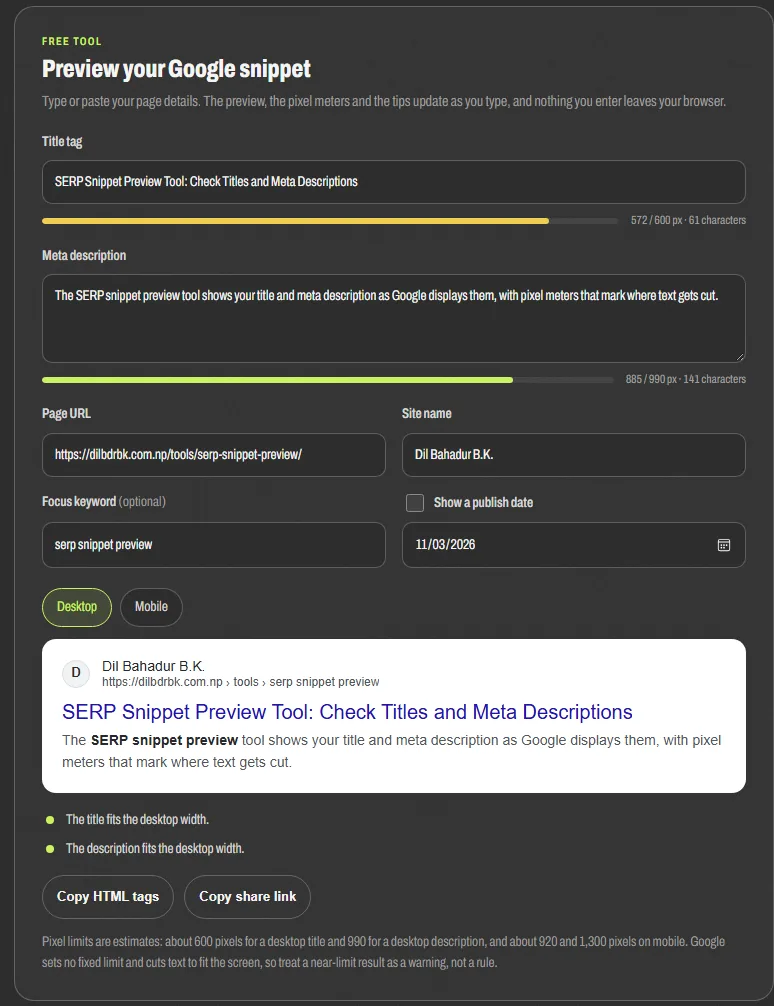
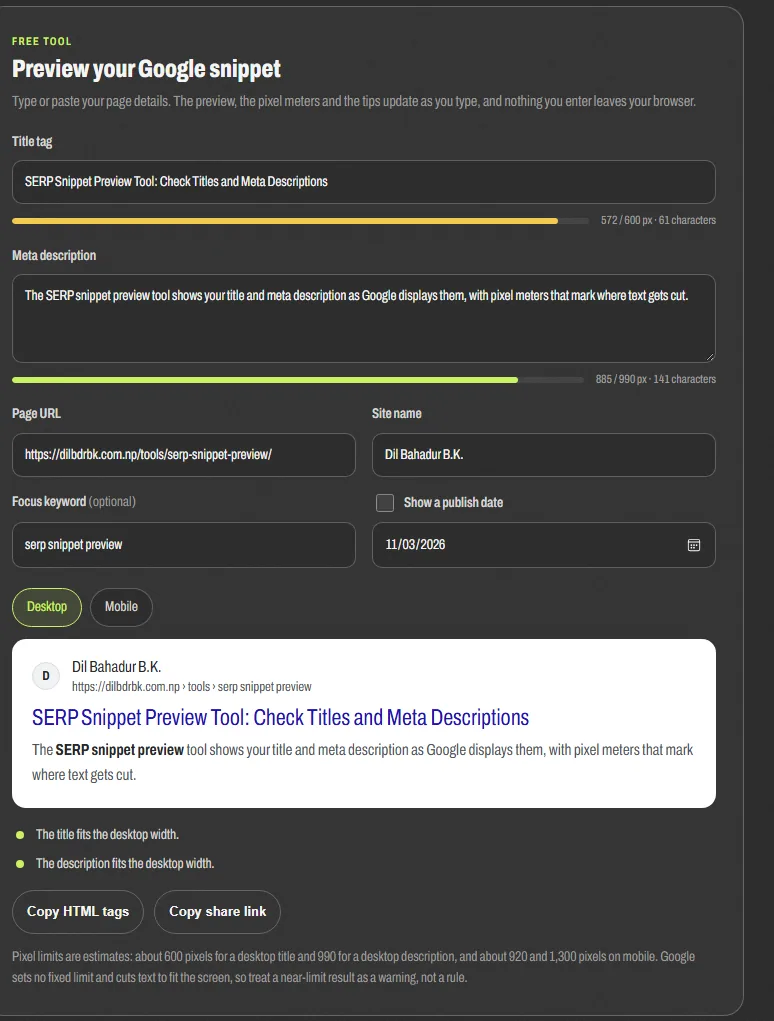
Full name in every page title; SERP preview card in the site font

diff --git a/tools/serp-snippet-preview/index.html b/tools/serp-snippet-preview/index.html
@@ -3,7 +3,7 @@
 <head>
 <meta charset="utf-8">
 <meta name="viewport" content="width=device-width, initial-scale=1">
-<title>SERP Snippet Preview Tool: Title &amp; Meta Checker | Dil B.K.</title>
+<title>Free SERP Snippet Preview Tool | Dil Bahadur B.K.</title>
 <meta name="description" content="The SERP snippet preview tool shows your title and meta description as Google displays them on desktop and mobile, with pixel meters and cut-off marks.">
 <link rel="author" href="https://dilbdrbk.com.np/about/">
 <meta name="author" content="Dil Bahadur B.K.">
@@ -13,7 +13,7 @@
 <meta property="og:type" content="website">
 <meta property="og:site_name" content="Dil Bahadur B.K.">
 <meta property="og:locale" content="en_US">
-<meta property="og:title" content="SERP Snippet Preview Tool: Title &amp; Meta Checker | Dil B.K.">
+<meta property="og:title" content="Free SERP Snippet Preview Tool | Dil Bahadur B.K.">
 <meta property="og:description" content="The SERP snippet preview tool shows your title and meta description as Google displays them on desktop and mobile, with pixel meters and cut-off marks.">
 <meta property="og:url" content="https://dilbdrbk.com.np/tools/serp-snippet-preview/">
 <meta property="og:image" content="https://dilbdrbk.com.np/assets/img/og-dil-bahadur-bk.jpg">
@@ -21,7 +21,7 @@
 <meta property="og:image:height" content="630">
 <meta property="og:image:alt" content="Dil Bahadur B.K., Semantic SEO Specialist">
 <meta name="twitter:card" content="summary_large_image">
-<meta name="twitter:title" content="SERP Snippet Preview Tool: Title &amp; Meta Checker | Dil B.K.">
+<meta name="twitter:title" content="Free SERP Snippet Preview Tool | Dil Bahadur B.K.">
 <meta name="twitter:description" content="The SERP snippet preview tool shows your title and meta description as Google displays them on desktop and mobile, with pixel meters and cut-off marks.">
 <meta name="twitter:image" content="https://dilbdrbk.com.np/assets/img/og-dil-bahadur-bk.jpg">
 <meta name="twitter:image:alt" content="Dil Bahadur B.K., Semantic SEO Specialist">
@@ -32,7 +32,7 @@
 <link rel="preconnect" href="https://fonts.googleapis.com">
 <link rel="preconnect" href="https://fonts.gstatic.com" crossorigin>
 <link rel="stylesheet" href="https://fonts.googleapis.com/css2?family=Archivo:wdth,wght@62..100,400..900&display=swap">
-<link rel="stylesheet" href="/assets/css/site.css?v=3b9fc9b3">
+<link rel="stylesheet" href="/assets/css/site.css?v=0fa12777">
 <script>document.documentElement.classList.add('js')</script>
 <script type="application/ld+json">
 {
@@ -273,8 +273,8 @@
 <li><strong>Switch between desktop and mobile.</strong> Each device uses its own width, so a title that fits on mobile can still get cut on desktop.</li>
 <li><strong>Copy the tags.</strong> The copy button gives you the finished title and meta description as HTML, ready for your page or CMS.</li>
 </ol>
-<figure class="post-figure"><img src="/assets/img/tools/serp-preview-desktop.webp" width="774" height="1006" alt="SERP snippet preview tool showing a desktop Google result with the title, URL breadcrumb, bolded keyword and two pixel meters that fit the limits" loading="lazy" decoding="async"><figcaption>Desktop preview: both meters stay within the estimated limits, so Google is likely to show the full title and description.</figcaption></figure>
-<figure class="post-figure"><img src="/assets/img/tools/serp-preview-long.webp" width="774" height="1064" alt="SERP snippet preview tool showing a title and description that run past the pixel limits, with the cut-off marked by an ellipsis and warnings in the tips list" loading="lazy" decoding="async"><figcaption>Too long: the preview cuts the title and the description where Google is likely to, and the tips explain what to shorten.</figcaption></figure>
+<figure class="post-figure"><img src="/assets/img/tools/serp-preview-desktop.webp" width="774" height="1021" alt="SERP snippet preview tool showing a desktop Google result with the title, URL breadcrumb, bolded keyword and two pixel meters that fit the limits" loading="lazy" decoding="async"><figcaption>Desktop preview: both meters stay within the estimated limits, so Google is likely to show the full title and description.</figcaption></figure>
+<figure class="post-figure"><img src="/assets/img/tools/serp-preview-long.webp" width="774" height="1079" alt="SERP snippet preview tool showing a title and description that run past the pixel limits, with the cut-off marked by an ellipsis and warnings in the tips list" loading="lazy" decoding="async"><figcaption>Too long: the preview cuts the title and the description where Google is likely to, and the tips explain what to shorten.</figcaption></figure>
 
 <h2 id="title-tag-length">How long should a title tag be?</h2>
 <p>A title tag should fit within about 600 pixels to show in full on desktop, which is roughly 50 to 60 characters of normal text. Google states that there is no limit on how long a title element can be, but that the title link is truncated as needed to fit the device width.</p>
@@ -288,7 +288,7 @@
 </tbody>
 </table>
 </div>
-<p>The estimates come from the limits that common preview tools use, measured in the Arial font Google uses for results. Google does not publish fixed numbers, so check important pages against a live search after publishing.</p>
+<p>The estimates come from the limits that common preview tools use. The tool measures every line in Arial, the font Google uses for results, while the preview card shows the text in this site's font. Google does not publish fixed numbers, so check important pages against a live search after publishing.</p>
 
 <h2 id="meta-description-length">How long should a meta description be?</h2>
 <p>A meta description should fit within about 990 pixels on desktop, roughly 140 to 160 characters, so the full answer shows in results. Google states that there is no limit on how long a meta description can be, but that the snippet is truncated to fit the device width.</p>

diff --git a/_src/pages/serp-snippet-preview.html b/_src/pages/serp-snippet-preview.html
@@ -73,8 +73,8 @@
 <li><strong>Switch between desktop and mobile.</strong> Each device uses its own width, so a title that fits on mobile can still get cut on desktop.</li>
 <li><strong>Copy the tags.</strong> The copy button gives you the finished title and meta description as HTML, ready for your page or CMS.</li>
 </ol>
-<figure class="post-figure"><img src="/assets/img/tools/serp-preview-desktop.webp" width="774" height="1006" alt="SERP snippet preview tool showing a desktop Google result with the title, URL breadcrumb, bolded keyword and two pixel meters that fit the limits" loading="lazy" decoding="async"><figcaption>Desktop preview: both meters stay within the estimated limits, so Google is likely to show the full title and description.</figcaption></figure>
-<figure class="post-figure"><img src="/assets/img/tools/serp-preview-long.webp" width="774" height="1064" alt="SERP snippet preview tool showing a title and description that run past the pixel limits, with the cut-off marked by an ellipsis and warnings in the tips list" loading="lazy" decoding="async"><figcaption>Too long: the preview cuts the title and the description where Google is likely to, and the tips explain what to shorten.</figcaption></figure>
+<figure class="post-figure"><img src="/assets/img/tools/serp-preview-desktop.webp" width="774" height="1021" alt="SERP snippet preview tool showing a desktop Google result with the title, URL breadcrumb, bolded keyword and two pixel meters that fit the limits" loading="lazy" decoding="async"><figcaption>Desktop preview: both meters stay within the estimated limits, so Google is likely to show the full title and description.</figcaption></figure>
+<figure class="post-figure"><img src="/assets/img/tools/serp-preview-long.webp" width="774" height="1079" alt="SERP snippet preview tool showing a title and description that run past the pixel limits, with the cut-off marked by an ellipsis and warnings in the tips list" loading="lazy" decoding="async"><figcaption>Too long: the preview cuts the title and the description where Google is likely to, and the tips explain what to shorten.</figcaption></figure>
 
 <h2 id="title-tag-length">How long should a title tag be?</h2>
 <p>A title tag should fit within about 600 pixels to show in full on desktop, which is roughly 50 to 60 characters of normal text. Google states that there is no limit on how long a title element can be, but that the title link is truncated as needed to fit the device width.</p>
@@ -88,7 +88,7 @@
 </tbody>
 </table>
 </div>
-<p>The estimates come from the limits that common preview tools use, measured in the Arial font Google uses for results. Google does not publish fixed numbers, so check important pages against a live search after publishing.</p>
+<p>The estimates come from the limits that common preview tools use. The tool measures every line in Arial, the font Google uses for results, while the preview card shows the text in this site's font. Google does not publish fixed numbers, so check important pages against a live search after publishing.</p>
 
 <h2 id="meta-description-length">How long should a meta description be?</h2>
 <p>A meta description should fit within about 990 pixels on desktop, roughly 140 to 160 characters, so the full answer shows in results. Google states that there is no limit on how long a meta description can be, but that the snippet is truncated to fit the device width.</p>

diff --git a/expertise/index.html b/expertise/index.html
@@ -3,7 +3,7 @@
 <head>
 <meta charset="utf-8">
 <meta name="viewport" content="width=device-width, initial-scale=1">
-<title>SEO Expertise: Semantic, Technical, Local &amp; AI Search | Dil B.K.</title>
+<title>SEO Expertise: Semantic, Local &amp; AI Search | Dil Bahadur B.K.</title>
 <meta name="description" content="Twelve areas of SEO expertise: semantic and entity SEO, topical maps, technical, on-page, local and off-page SEO, programmatic SEO, GEO, AEO and Reddit SEO.">
 <link rel="author" href="https://dilbdrbk.com.np/about/">
 <meta name="author" content="Dil Bahadur B.K.">
@@ -13,7 +13,7 @@
 <meta property="og:type" content="website">
 <meta property="og:site_name" content="Dil Bahadur B.K.">
 <meta property="og:locale" content="en_US">
-<meta property="og:title" content="SEO Expertise: Semantic, Technical, Local &amp; AI Search | Dil B.K.">
+<meta property="og:title" content="SEO Expertise: Semantic, Local &amp; AI Search | Dil Bahadur B.K.">
 <meta property="og:description" content="Twelve areas of SEO expertise: semantic and entity SEO, topical maps, technical, on-page, local and off-page SEO, programmatic SEO, GEO, AEO and Reddit SEO.">
 <meta property="og:url" content="https://dilbdrbk.com.np/expertise/">
 <meta property="og:image" content="https://dilbdrbk.com.np/assets/img/og-dil-bahadur-bk.jpg">
@@ -21,7 +21,7 @@
 <meta property="og:image:height" content="630">
 <meta property="og:image:alt" content="Dil Bahadur B.K., Semantic SEO Specialist">
 <meta name="twitter:card" content="summary_large_image">
-<meta name="twitter:title" content="SEO Expertise: Semantic, Technical, Local &amp; AI Search | Dil B.K.">
+<meta name="twitter:title" content="SEO Expertise: Semantic, Local &amp; AI Search | Dil Bahadur B.K.">
 <meta name="twitter:description" content="Twelve areas of SEO expertise: semantic and entity SEO, topical maps, technical, on-page, local and off-page SEO, programmatic SEO, GEO, AEO and Reddit SEO.">
 <meta name="twitter:image" content="https://dilbdrbk.com.np/assets/img/og-dil-bahadur-bk.jpg">
 <meta name="twitter:image:alt" content="Dil Bahadur B.K., Semantic SEO Specialist">
@@ -32,7 +32,7 @@
 <link rel="preconnect" href="https://fonts.googleapis.com">
 <link rel="preconnect" href="https://fonts.gstatic.com" crossorigin>
 <link rel="stylesheet" href="https://fonts.googleapis.com/css2?family=Archivo:wdth,wght@62..100,400..900&display=swap">
-<link rel="stylesheet" href="/assets/css/site.css?v=3b9fc9b3">
+<link rel="stylesheet" href="/assets/css/site.css?v=0fa12777">
 <script>document.documentElement.classList.add('js')</script>
 <script type="application/ld+json">
 {

diff --git a/editorial-policy/index.html b/editorial-policy/index.html
@@ -3,7 +3,7 @@
 <head>
 <meta charset="utf-8">
 <meta name="viewport" content="width=device-width, initial-scale=1">
-<title>Editorial Policy: How SEO Guides Are Researched | Dil B.K.</title>
+<title>Editorial Policy: How SEO Guides Are Checked | Dil Bahadur B.K.</title>
 <meta name="description" content="How Dil Bahadur B.K. researches, fact-checks and updates every SEO guide: a six-tier source hierarchy, claim-by-claim checks, AI use and corrections.">
 <link rel="author" href="https://dilbdrbk.com.np/about/">
 <meta name="author" content="Dil Bahadur B.K.">
@@ -13,7 +13,7 @@
 <meta property="og:type" content="website">
 <meta property="og:site_name" content="Dil Bahadur B.K.">
 <meta property="og:locale" content="en_US">
-<meta property="og:title" content="Editorial Policy: How SEO Guides Are Researched | Dil B.K.">
+<meta property="og:title" content="Editorial Policy: How SEO Guides Are Checked | Dil Bahadur B.K.">
 <meta property="og:description" content="How Dil Bahadur B.K. researches, fact-checks and updates every SEO guide: a six-tier source hierarchy, claim-by-claim checks, AI use and corrections.">
 <meta property="og:url" content="https://dilbdrbk.com.np/editorial-policy/">
 <meta property="og:image" content="https://dilbdrbk.com.np/assets/img/og-dil-bahadur-bk.jpg">
@@ -21,7 +21,7 @@
 <meta property="og:image:height" content="630">
 <meta property="og:image:alt" content="Dil Bahadur B.K., Semantic SEO Specialist">
 <meta name="twitter:card" content="summary_large_image">
-<meta name="twitter:title" content="Editorial Policy: How SEO Guides Are Researched | Dil B.K.">
+<meta name="twitter:title" content="Editorial Policy: How SEO Guides Are Checked | Dil Bahadur B.K.">
 <meta name="twitter:description" content="How Dil Bahadur B.K. researches, fact-checks and updates every SEO guide: a six-tier source hierarchy, claim-by-claim checks, AI use and corrections.">
 <meta name="twitter:image" content="https://dilbdrbk.com.np/assets/img/og-dil-bahadur-bk.jpg">
 <meta name="twitter:image:alt" content="Dil Bahadur B.K., Semantic SEO Specialist">
@@ -32,7 +32,7 @@
 <link rel="preconnect" href="https://fonts.googleapis.com">
 <link rel="preconnect" href="https://fonts.gstatic.com" crossorigin>
 <link rel="stylesheet" href="https://fonts.googleapis.com/css2?family=Archivo:wdth,wght@62..100,400..900&display=swap">
-<link rel="stylesheet" href="/assets/css/site.css?v=3b9fc9b3">
+<link rel="stylesheet" href="/assets/css/site.css?v=0fa12777">
 <script>document.documentElement.classList.add('js')</script>
 <script type="application/ld+json">
 {

diff --git a/how-search-works/index.html b/how-search-works/index.html
@@ -3,7 +3,7 @@
 <head>
 <meta charset="utf-8">
 <meta name="viewport" content="width=device-width, initial-scale=1">
-<title>How Search Works: 5 Diagrams on Ranking &amp; AI Answers | Dil B.K.</title>
+<title>How Search Works: Ranking &amp; AI Answers | Dil Bahadur B.K.</title>
 <meta name="description" content="How a page is crawled, understood and ranked, how AI search composes an answer, how an entity becomes a topical map, and how I test SEO ideas.">
 <link rel="author" href="https://dilbdrbk.com.np/about/">
 <meta name="author" content="Dil Bahadur B.K.">
@@ -13,7 +13,7 @@
 <meta property="og:type" content="article">
 <meta property="og:site_name" content="Dil Bahadur B.K.">
 <meta property="og:locale" content="en_US">
-<meta property="og:title" content="How Search Works: 5 Diagrams on Ranking &amp; AI Answers | Dil B.K.">
+<meta property="og:title" content="How Search Works: Ranking &amp; AI Answers | Dil Bahadur B.K.">
 <meta property="og:description" content="How a page is crawled, understood and ranked, how AI search composes an answer, how an entity becomes a topical map, and how I test SEO ideas.">
 <meta property="og:url" content="https://dilbdrbk.com.np/how-search-works/">
 <meta property="og:image" content="https://dilbdrbk.com.np/assets/img/og-dil-bahadur-bk.jpg">
@@ -21,7 +21,7 @@
 <meta property="og:image:height" content="630">
 <meta property="og:image:alt" content="Dil Bahadur B.K., Semantic SEO Specialist">
 <meta name="twitter:card" content="summary_large_image">
-<meta name="twitter:title" content="How Search Works: 5 Diagrams on Ranking &amp; AI Answers | Dil B.K.">
+<meta name="twitter:title" content="How Search Works: Ranking &amp; AI Answers | Dil Bahadur B.K.">
 <meta name="twitter:description" content="How a page is crawled, understood and ranked, how AI search composes an answer, how an entity becomes a topical map, and how I test SEO ideas.">
 <meta name="twitter:image" content="https://dilbdrbk.com.np/assets/img/og-dil-bahadur-bk.jpg">
 <meta name="twitter:image:alt" content="Dil Bahadur B.K., Semantic SEO Specialist">
@@ -32,7 +32,7 @@
 <link rel="preconnect" href="https://fonts.googleapis.com">
 <link rel="preconnect" href="https://fonts.gstatic.com" crossorigin>
 <link rel="stylesheet" href="https://fonts.googleapis.com/css2?family=Archivo:wdth,wght@62..100,400..900&display=swap">
-<link rel="stylesheet" href="/assets/css/site.css?v=3b9fc9b3">
+<link rel="stylesheet" href="/assets/css/site.css?v=0fa12777">
 <script>document.documentElement.classList.add('js')</script>
 <script type="application/ld+json">
 {

diff --git a/seo-audit-checklist/index.html b/seo-audit-checklist/index.html
@@ -3,7 +3,7 @@
 <head>
 <meta charset="utf-8">
 <meta name="viewport" content="width=device-width, initial-scale=1">
-<title>SEO Audit Checklist: 56 Checks for Any Website | Dil B.K.</title>
+<title>SEO Audit Checklist: 56 Checks | Dil Bahadur B.K.</title>
 <meta name="description" content="An SEO audit checklist of 56 checks covers technical SEO, on-page, content, local, off-page and AI search, so you find and fix what blocks rankings.">
 <link rel="author" href="https://dilbdrbk.com.np/about/">
 <meta name="author" content="Dil Bahadur B.K.">
@@ -13,7 +13,7 @@
 <meta property="og:type" content="website">
 <meta property="og:site_name" content="Dil Bahadur B.K.">
 <meta property="og:locale" content="en_US">
-<meta property="og:title" content="SEO Audit Checklist: 56 Checks for Any Website | Dil B.K.">
+<meta property="og:title" content="SEO Audit Checklist: 56 Checks | Dil Bahadur B.K.">
 <meta property="og:description" content="An SEO audit checklist of 56 checks covers technical SEO, on-page, content, local, off-page and AI search, so you find and fix what blocks rankings.">
 <meta property="og:url" content="https://dilbdrbk.com.np/seo-audit-checklist/">
 <meta property="og:image" content="https://dilbdrbk.com.np/assets/img/og-dil-bahadur-bk.jpg">
@@ -21,7 +21,7 @@
 <meta property="og:image:height" content="630">
 <meta property="og:image:alt" content="Dil Bahadur B.K., Semantic SEO Specialist">
 <meta name="twitter:card" content="summary_large_image">
-<meta name="twitter:title" content="SEO Audit Checklist: 56 Checks for Any Website | Dil B.K.">
+<meta name="twitter:title" content="SEO Audit Checklist: 56 Checks | Dil Bahadur B.K.">
 <meta name="twitter:description" content="An SEO audit checklist of 56 checks covers technical SEO, on-page, content, local, off-page and AI search, so you find and fix what blocks rankings.">
 <meta name="twitter:image" content="https://dilbdrbk.com.np/assets/img/og-dil-bahadur-bk.jpg">
 <meta name="twitter:image:alt" content="Dil Bahadur B.K., Semantic SEO Specialist">
@@ -32,7 +32,7 @@
 <link rel="preconnect" href="https://fonts.googleapis.com">
 <link rel="preconnect" href="https://fonts.gstatic.com" crossorigin>
 <link rel="stylesheet" href="https://fonts.googleapis.com/css2?family=Archivo:wdth,wght@62..100,400..900&display=swap">
-<link rel="stylesheet" href="/assets/css/site.css?v=3b9fc9b3">
+<link rel="stylesheet" href="/assets/css/site.css?v=0fa12777">
 <script>document.documentElement.classList.add('js')</script>
 <script type="application/ld+json">
 {

diff --git a/assets/css/site.css b/assets/css/site.css
@@ -2029,16 +2029,16 @@ html.js .nojs-only { display: none; }
 .snip-bar span.is-over { background: #ff7a6b; }
 .serp-count { flex: none; color: var(--muted); font-size: 0.75rem; font-weight: 500; font-variant-numeric: tabular-nums; }
 .serp-device { display: flex; gap: 8px; margin-top: 20px; }
-.serp-result { margin-top: 12px; padding: 18px 20px 20px; border-radius: 14px; background: #fff; color: #4d5156; font-family: Arial, "Helvetica Neue", sans-serif; font-stretch: 100%; }
+.serp-result { margin-top: 12px; padding: 18px 20px 20px; border-radius: 14px; background: #fff; color: #4d5156; font-family: var(--font); font-stretch: var(--text-stretch); }
 .serp-result[data-device-view="mobile"] { max-width: 420px; }
 .serp-site { display: flex; align-items: center; gap: 12px; }
 .serp-favicon { display: grid; place-items: center; flex: none; width: 28px; height: 28px; border: 1px solid #dadce0; border-radius: 50%; background: #f1f3f4; color: #202124; font-size: 13px; font-weight: 700; }
 .serp-site-text { display: grid; min-width: 0; line-height: 1.3; }
-.serp-site-name { overflow: hidden; color: #202124; font-size: 14px; white-space: nowrap; text-overflow: ellipsis; }
-.serp-crumb { overflow: hidden; color: #4d5156; font-size: 12px; white-space: nowrap; text-overflow: ellipsis; }
-.post-body .serp-title { margin-top: 8px; color: #1a0dab; font-size: 20px; line-height: 1.3; font-weight: 400; }
-.serp-result[data-device-view="mobile"] .serp-title { font-size: 18px; }
-.post-body .serp-desc { margin-top: 4px; color: #4d5156; font-size: 14px; line-height: 1.58; }
+.serp-site-name { overflow: hidden; color: #202124; font-size: 16px; white-space: nowrap; text-overflow: ellipsis; }
+.serp-crumb { overflow: hidden; color: #4d5156; font-size: 13.5px; white-space: nowrap; text-overflow: ellipsis; }
+.post-body .serp-title { margin-top: 8px; color: #1a0dab; font-size: 23px; line-height: 1.3; font-weight: 400; }
+.serp-result[data-device-view="mobile"] .serp-title { font-size: 21px; }
+.post-body .serp-desc { margin-top: 4px; color: #4d5156; font-size: 16px; line-height: 1.58; }
 .serp-desc b { color: #202124; font-weight: 700; }
 .serp-date { color: #70757a; }
 .serp-tips { display: grid; gap: 8px; margin-top: 16px; padding: 0; list-style: none; }

diff --git a/404.html b/404.html
@@ -31,7 +31,7 @@
 <link rel="preconnect" href="https://fonts.googleapis.com">
 <link rel="preconnect" href="https://fonts.gstatic.com" crossorigin>
 <link rel="stylesheet" href="https://fonts.googleapis.com/css2?family=Archivo:wdth,wght@62..100,400..900&display=swap">
-<link rel="stylesheet" href="/assets/css/site.css?v=3b9fc9b3">
+<link rel="stylesheet" href="/assets/css/site.css?v=0fa12777">
 <script>document.documentElement.classList.add('js')</script>
 <script type="application/ld+json">
 {

diff --git a/about/index.html b/about/index.html
@@ -34,7 +34,7 @@
 <link rel="preconnect" href="https://fonts.googleapis.com">
 <link rel="preconnect" href="https://fonts.gstatic.com" crossorigin>
 <link rel="stylesheet" href="https://fonts.googleapis.com/css2?family=Archivo:wdth,wght@62..100,400..900&display=swap">
-<link rel="stylesheet" href="/assets/css/site.css?v=3b9fc9b3">
+<link rel="stylesheet" href="/assets/css/site.css?v=0fa12777">
 <script>document.documentElement.classList.add('js')</script>
 <script type="application/ld+json">
 {

diff --git a/blog/entity-seo-vs-keyword-seo/index.html b/blog/entity-seo-vs-keyword-seo/index.html
@@ -44,7 +44,7 @@
 <link rel="preconnect" href="https://fonts.googleapis.com">
 <link rel="preconnect" href="https://fonts.gstatic.com" crossorigin>
 <link rel="stylesheet" href="https://fonts.googleapis.com/css2?family=Archivo:wdth,wght@62..100,400..900&display=swap">
-<link rel="stylesheet" href="/assets/css/site.css?v=3b9fc9b3">
+<link rel="stylesheet" href="/assets/css/site.css?v=0fa12777">
 <script>document.documentElement.classList.add('js')</script>
 <script type="application/ld+json">
 {

diff --git a/blog/how-to-create-a-topical-map/index.html b/blog/how-to-create-a-topical-map/index.html
@@ -45,7 +45,7 @@
 <link rel="preconnect" href="https://fonts.googleapis.com">
 <link rel="preconnect" href="https://fonts.gstatic.com" crossorigin>
 <link rel="stylesheet" href="https://fonts.googleapis.com/css2?family=Archivo:wdth,wght@62..100,400..900&display=swap">
-<link rel="stylesheet" href="/assets/css/site.css?v=3b9fc9b3">
+<link rel="stylesheet" href="/assets/css/site.css?v=0fa12777">
 <script>document.documentElement.classList.add('js')</script>
 <script type="application/ld+json">
 {

diff --git a/blog/how-to-get-cited-by-chatgpt/index.html b/blog/how-to-get-cited-by-chatgpt/index.html
@@ -46,7 +46,7 @@
 <link rel="preconnect" href="https://fonts.googleapis.com">
 <link rel="preconnect" href="https://fonts.gstatic.com" crossorigin>
 <link rel="stylesheet" href="https://fonts.googleapis.com/css2?family=Archivo:wdth,wght@62..100,400..900&display=swap">
-<link rel="stylesheet" href="/assets/css/site.css?v=3b9fc9b3">
+<link rel="stylesheet" href="/assets/css/site.css?v=0fa12777">
 <script>document.documentElement.classList.add('js')</script>
 <script type="application/ld+json">
 {
